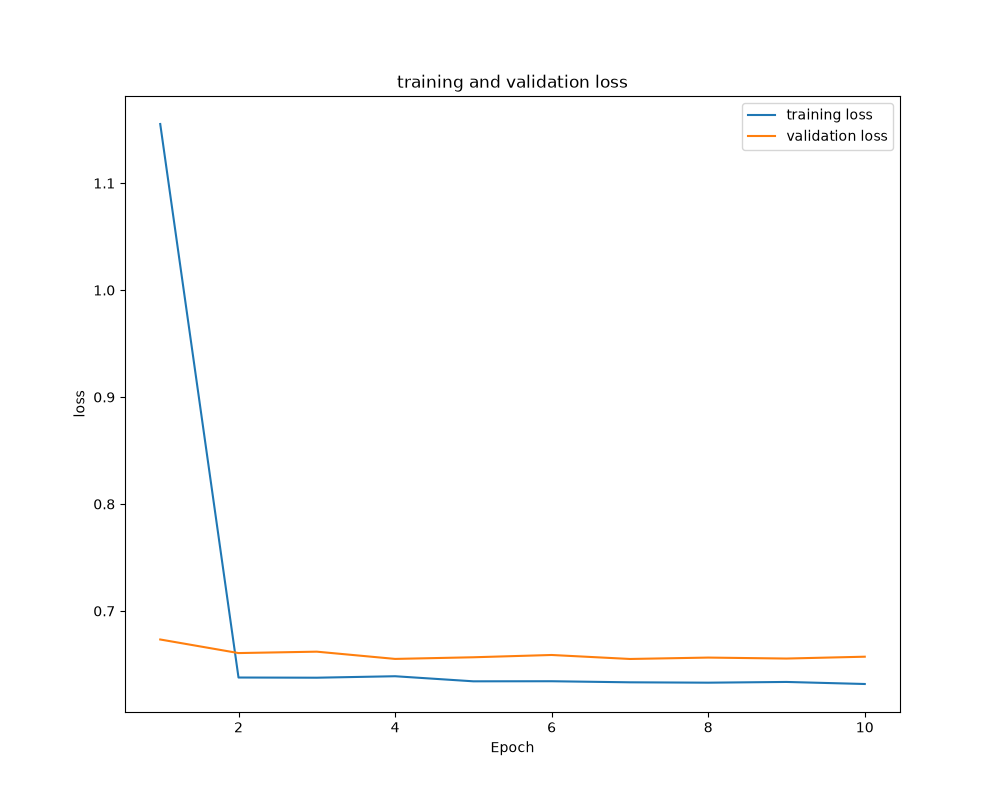
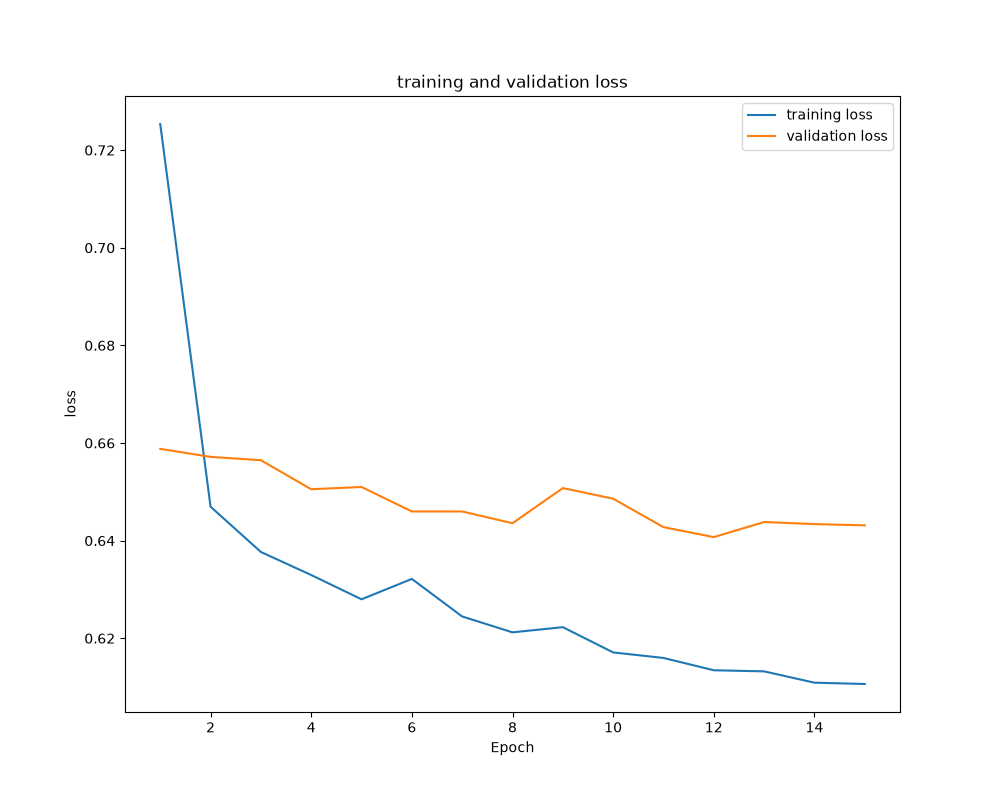
plot for data

diff --git a/breast-cancer-CNN/utils/visualizaition.py b/breast-cancer-CNN/utils/visualizaition.py
@@ -16,3 +16,47 @@ def plot_training_history(training_losses,valid_losses,save_path):
     plt.legend()
     plt.savefig(save_path)
     plt.close()
+
+#confusion matrix heatmap
+def plot_confusion_matrix(true_labels,prediction_labels,class_names,save_path):
+    cm=confusion_matrix(true_labels,prediction_labels)
+    plt.figure(figsize=(10,8))
+    sns.heatmap(cm,annot=True,fmt="d",cmap="Blues",xticklabels=class_names,yticklabels=class_names)
+    plt.xlabel("predicted label")
+    plt.ylabel("true label")
+    plt.title("confusion matrix")
+    plt.tight_layout()
+    plt.savefig(save_path)
+    plt.close()
+
+#classification report
+
+def plot_classification_report(labels,predictions,class_names,save_path):
+    report = classification_report(labels,predictions,target_names=class_names,output_dict=True)
+
+    classes = class_names
+
+    precision = [report[class_name]["precision"] for class_name in classes]
+    recall = [report[class_name]["recall"] for class_name in classes]
+    f1_score = [report[class_name]["f1-score"] for class_name in classes]
+
+    x = range(len(classes))
+
+    plt.figure(figsize=(12, 6))
+
+    plt.bar([i - 0.2 for i in x],precision,width=0.2,label="Precision")
+
+    plt.bar(x,recall,width=0.2,label="Recall")
+
+    plt.bar([i + 0.2 for i in x],f1_score,width=0.2,label="F1-score")
+
+    plt.xlabel("Classes")
+    plt.ylabel("Score")
+    plt.title("Classification Report")
+    plt.xticks(list(x), classes, rotation=45)
+    plt.ylim(0, 1)
+    plt.legend()
+    plt.tight_layout()
+
+    plt.savefig(save_path)
+    plt.close()

diff --git a/breast-cancer-CNN/models/model_architectur/model.py b/breast-cancer-CNN/models/model_architectur/model.py
@@ -7,11 +7,15 @@ class CNN_model(nn.Module):
         # define the layers of the CNN model
         # convolutional layer 1
         self.conv1=nn.Conv2d(
-            in_channels=3,out_channels=16,kernel_size=3,stride=1
+            in_channels=3,out_channels=16,kernel_size=3
         )
         # convolutional layer 2 
         self.conv2=nn.Conv2d(
-            in_channels=16,out_channels=32,kernel_size=3,stride=1
+            in_channels=16,out_channels=32,kernel_size=3
+        )
+        #convolutional layer 3
+        self.conv3=nn.Conv2d(
+            in_channels=32,out_channels=64,kernel_size=3
         )
         #activation function
         self.relu=nn.ReLU()
@@ -23,11 +27,11 @@ class CNN_model(nn.Module):
 
         #classifier layer
         self.fc=nn.Linear(
-            in_features=32*54*54,out_features=2
+            in_features=64 * 26 * 26,out_features=2
         )
 
         #dropout layer
-        self.dropout=nn.Dropout(0.5)
+        self.dropout=nn.Dropout(0.3)
 
     def forward(self,x):
         # pass the input through the layers of the model
@@ -37,6 +41,11 @@ class CNN_model(nn.Module):
         x=self.dropout(x)
 
         x=self.conv2(x)
+        x=self.relu(x)
+        x=self.pool(x)
+        x=self.dropout(x)
+
+        x=self.conv3(x)
         x=self.relu(x)
         x=self.pool(x)
         x=self.dropout(x)
